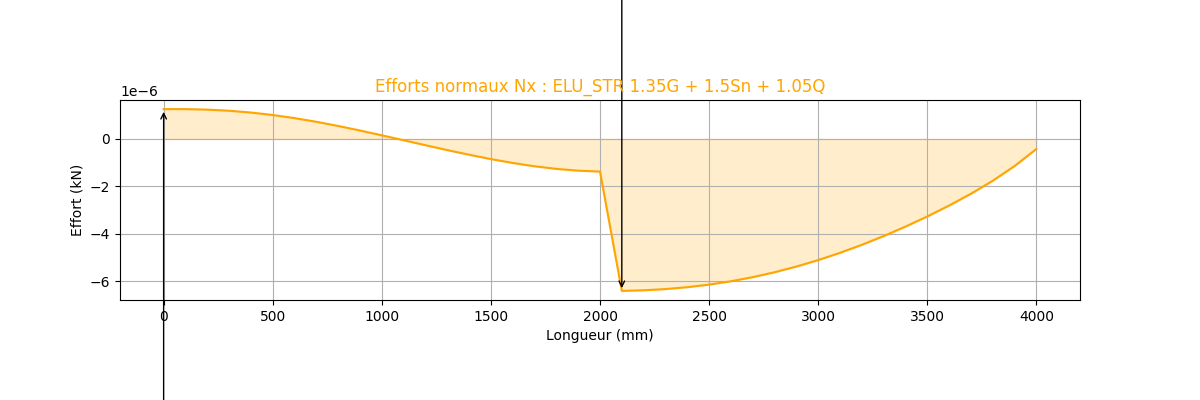
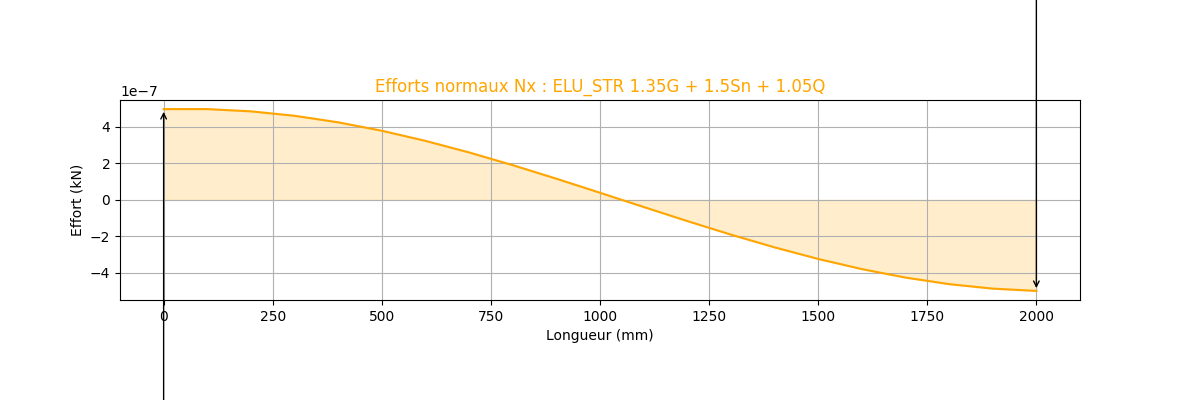
correct bug EC0

diff --git a/catalog/eurocode/EC0_Combinaison.py b/catalog/eurocode/EC0_Combinaison.py
@@ -525,7 +525,7 @@ class Combinaison(Chargement):
 		for name_combi_C, val in combi_c.items():
 			position = list_of_value.index(val)
 			name_combi_QP = list_of_key[position]
-			name_combi = "W_net_fin "+ name_combi_C + " / " + name_combi_QP
+			name_combi = "W_net_fin "+ name_combi_C + " & " + name_combi_QP
 
 			df_c = self.df_load_ELScarac[self.df_load_ELScarac["Combinaison"] == name_combi_C]
 			df_qp = self.df_load_ELSqp[self.df_load_ELSqp["Combinaison"] == name_combi_QP]
@@ -540,9 +540,11 @@ class Combinaison(Chargement):
 				if len(df_qp[df_qp["Index"] == index_c]):
 					valeur_qp = df_qp[df_qp["Index"] == index_c].iloc[0,5]
 					valeur = valeur_c + valeur_qp
-					load = np.array([name_combi, index_c, name_load, action_load, type_load, valeur, position, axe], dtype=object)
-					array_load = np.append(array_load,[load],axis= 0)
-					self._create_list_combination(name_combi)
+				else:
+					valeur = valeur_c
+				load = np.array([name_combi, index_c, name_load, action_load, type_load, valeur, position, axe], dtype=object)
+				array_load = np.append(array_load,[load],axis= 0)
+				self._create_list_combination(name_combi)
 
 		array_load = array_load[array_load[:, 0].argsort()]
 		self.df_W_net_fin = self._create_dataframe_load(array_load)
@@ -550,7 +552,7 @@ class Combinaison(Chargement):
  
 
 	def _return_combi_W_inst_Q(self, combi):
-		return self.df_W_net_fin.loc[self.df_W_net_fin['Combinaison']==combi]
+		return self.df_W_inst_Q.loc[self.df_W_inst_Q['Combinaison']==combi]
 	
 	def _return_combi_W_net_fin(self, combi):
 		return self.df_W_net_fin.loc[self.df_W_net_fin['Combinaison']==combi]

diff --git a/catalog/eurocode/A1_MEF.py b/catalog/eurocode/A1_MEF.py
@@ -908,17 +908,20 @@ class MEF(Combinaison, _Base_graph):
 
 if __name__ == '__main__':
     from EC0_Combinaison import Chargement
-    _list_loads = [[1, '', 'Permanente G', 'Linéique', -10, '0/2000', 'Z'],
-                 [0, 'Poids propre', 'Permanente G', 'Linéique', -36, '0/2000', 'Z'],
-                 [2, '', 'Neige normale Sn', 'Linéique', -200, '0/2000', 'Z'],
-                 [3, '', 'Exploitation Q', 'Linéique', -150, '0/2000', 'Z']]
+    _list_loads = [[1, '', 'Permanente G', 'Linéique', -10, '0/6000', 'Z'],
+                 [0, 'Poids propre', 'Permanente G', 'Linéique', -36, '0/6000', 'Z'],
+                 [2, '', 'Neige normale Sn', 'Linéique', -200, '0/6000', 'Z'],
+                 [3, '', 'Exploitation Q', 'Linéique', -150, '0/6000', 'Z']]
     chargement = Chargement(pays="Japon")
     chargement.create_load_by_list(_list_loads)
-    c1 = Combinaison._from_parent_class(chargement, cat="Cat A : habitation")
+    c1 = Combinaison._from_parent_class(chargement, cat="Cat A : habitation", kdef=0.6)
     print(c1.list_combination)
-    rcombi = "ELU_STR 1.35G + 1.5Sn + 1.05Q"
+    rcombi = "W_net_fin ELS_C G + Q + 0.5Sn & ELS_QP G + 0.3Q"
+    # W_inst Q + 0.5Sn
+    # W_net_fin ELS_C G + Q + 0.5Sn / ELS_QP G + 0.3Q
     print(c1.get_combi_list_load(rcombi))
-    long = 2000
+    print(c1.df_W_net_fin)
+    long = 6000
     node = int(round(long/100))
     
     b = 140
